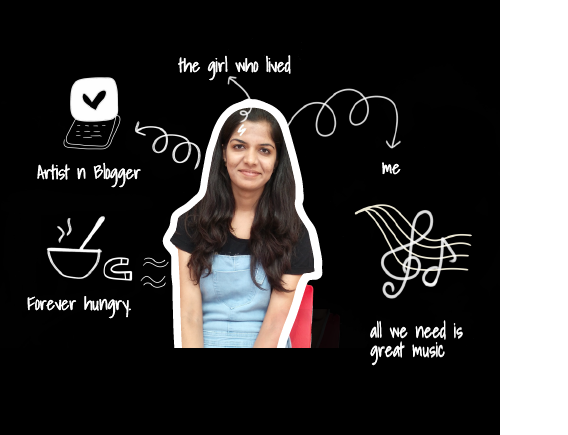
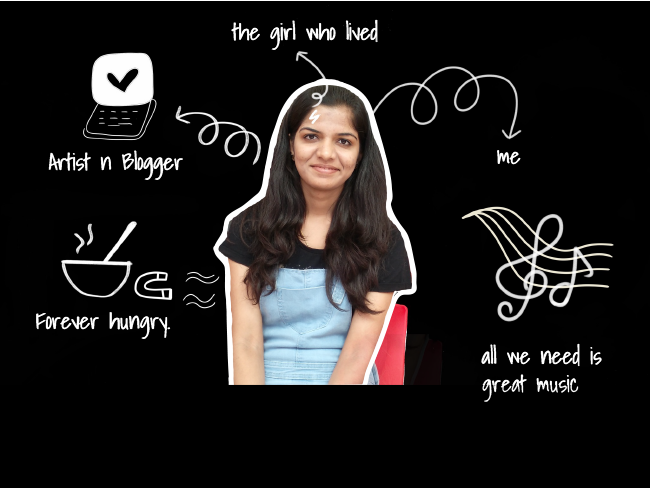
Update about page

diff --git a/_sass/_about.scss b/_sass/_about.scss
@@ -1,26 +1,8 @@
 #about-page {
-  
-  .left{
-    margin-left: 75px
-  }
-  p{
-    margin-left: 3.5em;
-  }
-  .head-shot-container {
-    position: relative;
-    // The top negative offset is required due to the clipping of image.
-    // The height of the image is `300px`.
-    // This needs `-150px` top positioning.
-    // However, `h1.display-4` has 5px padding-top
-    // So, the effective top positioning required is `-145px`
-    top: -145px;
-
-    img.headshot {
-      display: block;
-      width: 260px;
-      margin: 0 auto;
-      clip-path: url(#hex-clipping);
-    }
+  .image-container {
+    background-color: #000;
+    display: flex;
+    align-items: center;
   }
   
 

diff --git a/_includes/head.html b/_includes/head.html
@@ -32,7 +32,7 @@
 
   
  <link href="https://fonts.googleapis.com/css?family=Lato:300,400,400i,700" rel="stylesheet">
- <link href="https://fonts.googleapis.com/css?family=Amatic+SC:400,700" rel="stylesheet">
+ 
   
   <script src="https://code.jquery.com/jquery-3.3.1.slim.min.js" integrity="sha384-q8i/X+965DzO0rT7abK41JStQIAqVgRVzpbzo5smXKp4YfRvH+8abtTE1Pi6jizo" crossorigin="anonymous"></script>
   <script src="https://cdnjs.cloudflare.com/ajax/libs/popper.js/1.14.3/umd/popper.min.js" integrity="sha384-ZMP7rVo3mIykV+2+9J3UJ46jBk0WLaUAdn689aCwoqbBJiSnjAK/l8WvCWPIPm49" crossorigin="anonymous"></script>

diff --git a/_includes/header.html b/_includes/header.html
@@ -1,6 +1,6 @@
 <header>
   <div class="container">
-    <nav class="navbar navbar-expand-lg navbar-light">
+    <nav class="navbar navbar-expand-lg navbar-light bg-transparent">
       <a class="navbar-brand" href="{{site.baseurl}}/"><img src="/images/icons/favicons/Logo.png"></img></a>
       <a class="navbar-brand" href="{{site.baseurl}}/">SahitiGopal</a>
       <button class="navbar-toggler" type="button" data-toggle="collapse" data-target="#navbarSupportedContent" aria-controls="navbarSupportedContent" aria-expanded="false" aria-label="Toggle navigation">

diff --git a/about.html b/about.html
@@ -4,12 +4,12 @@ title: About
 permalink: /about/
 ---
 <div class="row">
-<div class="col-sm-5 col-md-4 col-xs-12">
+<div class="image-container col-sm-4 col-md-4 col-xs-12">
  
-  <img src="{{site.baseurl}}/images/Pic.png" class='immg'></img>
+  <img src="{{site.baseurl}}/images/Pic.png" class='img img-fluid'></img>
 </div>
 
-<div class="col-sm-7 col-md-8 col-xs-12">
+<div class="col-sm-8 col-md-8 col-xs-12">
   
   <h1 class="display-4 left">Sahiti Gopal</h1>
   <p class="lead">

diff --git a/_sass/_theme.scss b/_sass/_theme.scss
@@ -1,7 +1,7 @@
 $primary-font-family: 'Lato', sans-serif;
-$display-font-family: 'Amatic SC', cursive;
+
 $primary-font-weight:300;
-$display-font-weight:700;
+
 $bold-font-weight:700;
 $dark-color:#34495e;
 $light-color:#ecf0f1;

diff --git a/_sass/_common.scss b/_sass/_common.scss
@@ -1,12 +1,13 @@
 body {
-  @include display-font;
+  @include primary-font;
+ 
 }
 
 main {
   @include primary-font;
   
   h1, h2, h3, h4, h5, h6 {
-    @include display-font;
+    @include primary-font;
   }
 }
 

diff --git a/_sass/_mixins.scss b/_sass/_mixins.scss
@@ -15,7 +15,3 @@
   font-weight: $primary-font-weight;
 }
 
-@mixin display-font {
-  font-family: $display-font-family;
-  font-weight: $display-font-weight;
-}

diff --git a/_sass/_home.scss b/_sass/_home.scss
@@ -7,7 +7,7 @@
   overflow: hidden;
 
   #home-nav {
-    @include display-font;
+    @include primary-font;
     
     display: flex;
     position: absolute;
